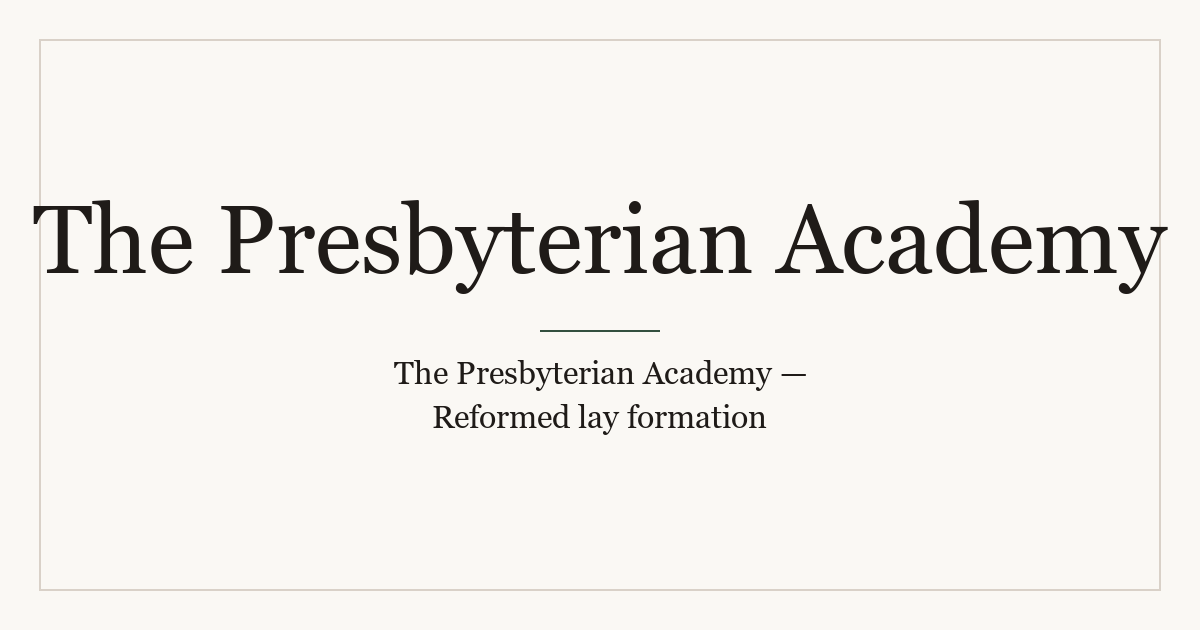
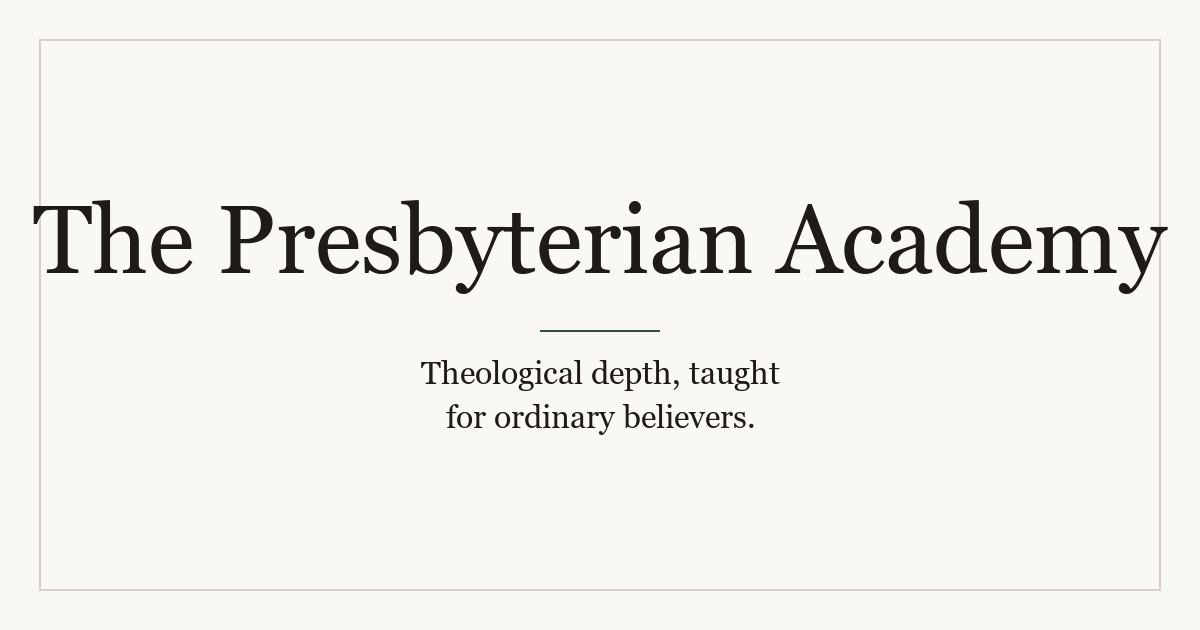
feat(seo): seed page + course SEO; fix OG taglines + homePage.heroImage orphan
- seed-editability.mjs: seed seoTitle/seoDescription on the 11 page singletons + 8
  courses (render-neutral, mirrors each page's .astro fallback). seoImage left as
  the intentional optional (per-page OG generated at build time). Also unset the
  legacy homePage.heroImage orphan (replaced by heroImages[]; was tripping a Studio
  'unknown field' warning). 39 patches applied to production.
- generate-og-pages.mjs: OG-card tagline now prefers heroHeadline over seoTitle, so
  the brand-suffixed <title> value no longer prints the wordmark twice on the card.
  The 10 seeded pages' OG images are unchanged (already used the headline); home +
  about regenerate with their clean headlines.
- index.astro: drop the dead page?.heroImage fallback (removed from the schema, no
  longer queried).

Render-neutral; build green; OG card verified visually.

Changed region(s): [[0.3083, 0.573, 0.6475, 0.6937]]

diff --git a/docs/agent/changelog.md b/docs/agent/changelog.md
@@ -34,8 +34,15 @@ designer credit) and created 24 docs: the 5 missing singletons (contact, events,
 the `h3` style to match the static fallback), 5 faqCategory, 11 faqItem, 3
 recurring event docs. Dataset went 39 -> 63 published docs; /faq and /events now
 render from real editable content (the FAQ JSON-LD stops shipping invented prices
-baked into page code). NOT seeded: phone + socials (need real values). Verified
-render-neutral against the built HTML (privacy PT headings, FAQ 5-category
+baked into page code). NOT seeded: phone + socials (need real values). A same-day follow-on seeded the
+SEO text fields (`seoTitle`/`seoDescription`) on the 11 page singletons + 8
+courses (render-neutral, mirroring each page's `.astro` fallback; `seoImage` left
+as the intentional optional since per-page OG images are generated at build
+time), unset the legacy `homePage.heroImage` orphan (it tripped a Studio "unknown
+field" warning; superseded by `heroImages[]`), and fixed `generate-og-pages.mjs`
+to use the clean `heroHeadline` for the OG-card tagline instead of the
+brand-suffixed `seoTitle` (no more doubled wordmark; the home + about cards
+refreshed). Verified render-neutral against the built HTML (privacy PT headings, FAQ 5-category
 grouping, events cards, pricing extraction) and the green production build (incl.
 3 new /events/[slug] detail pages from the recurring events). Note: a pre-
 existing dev-only React SSR "Invalid hook call" issue (two React copies in Vite's